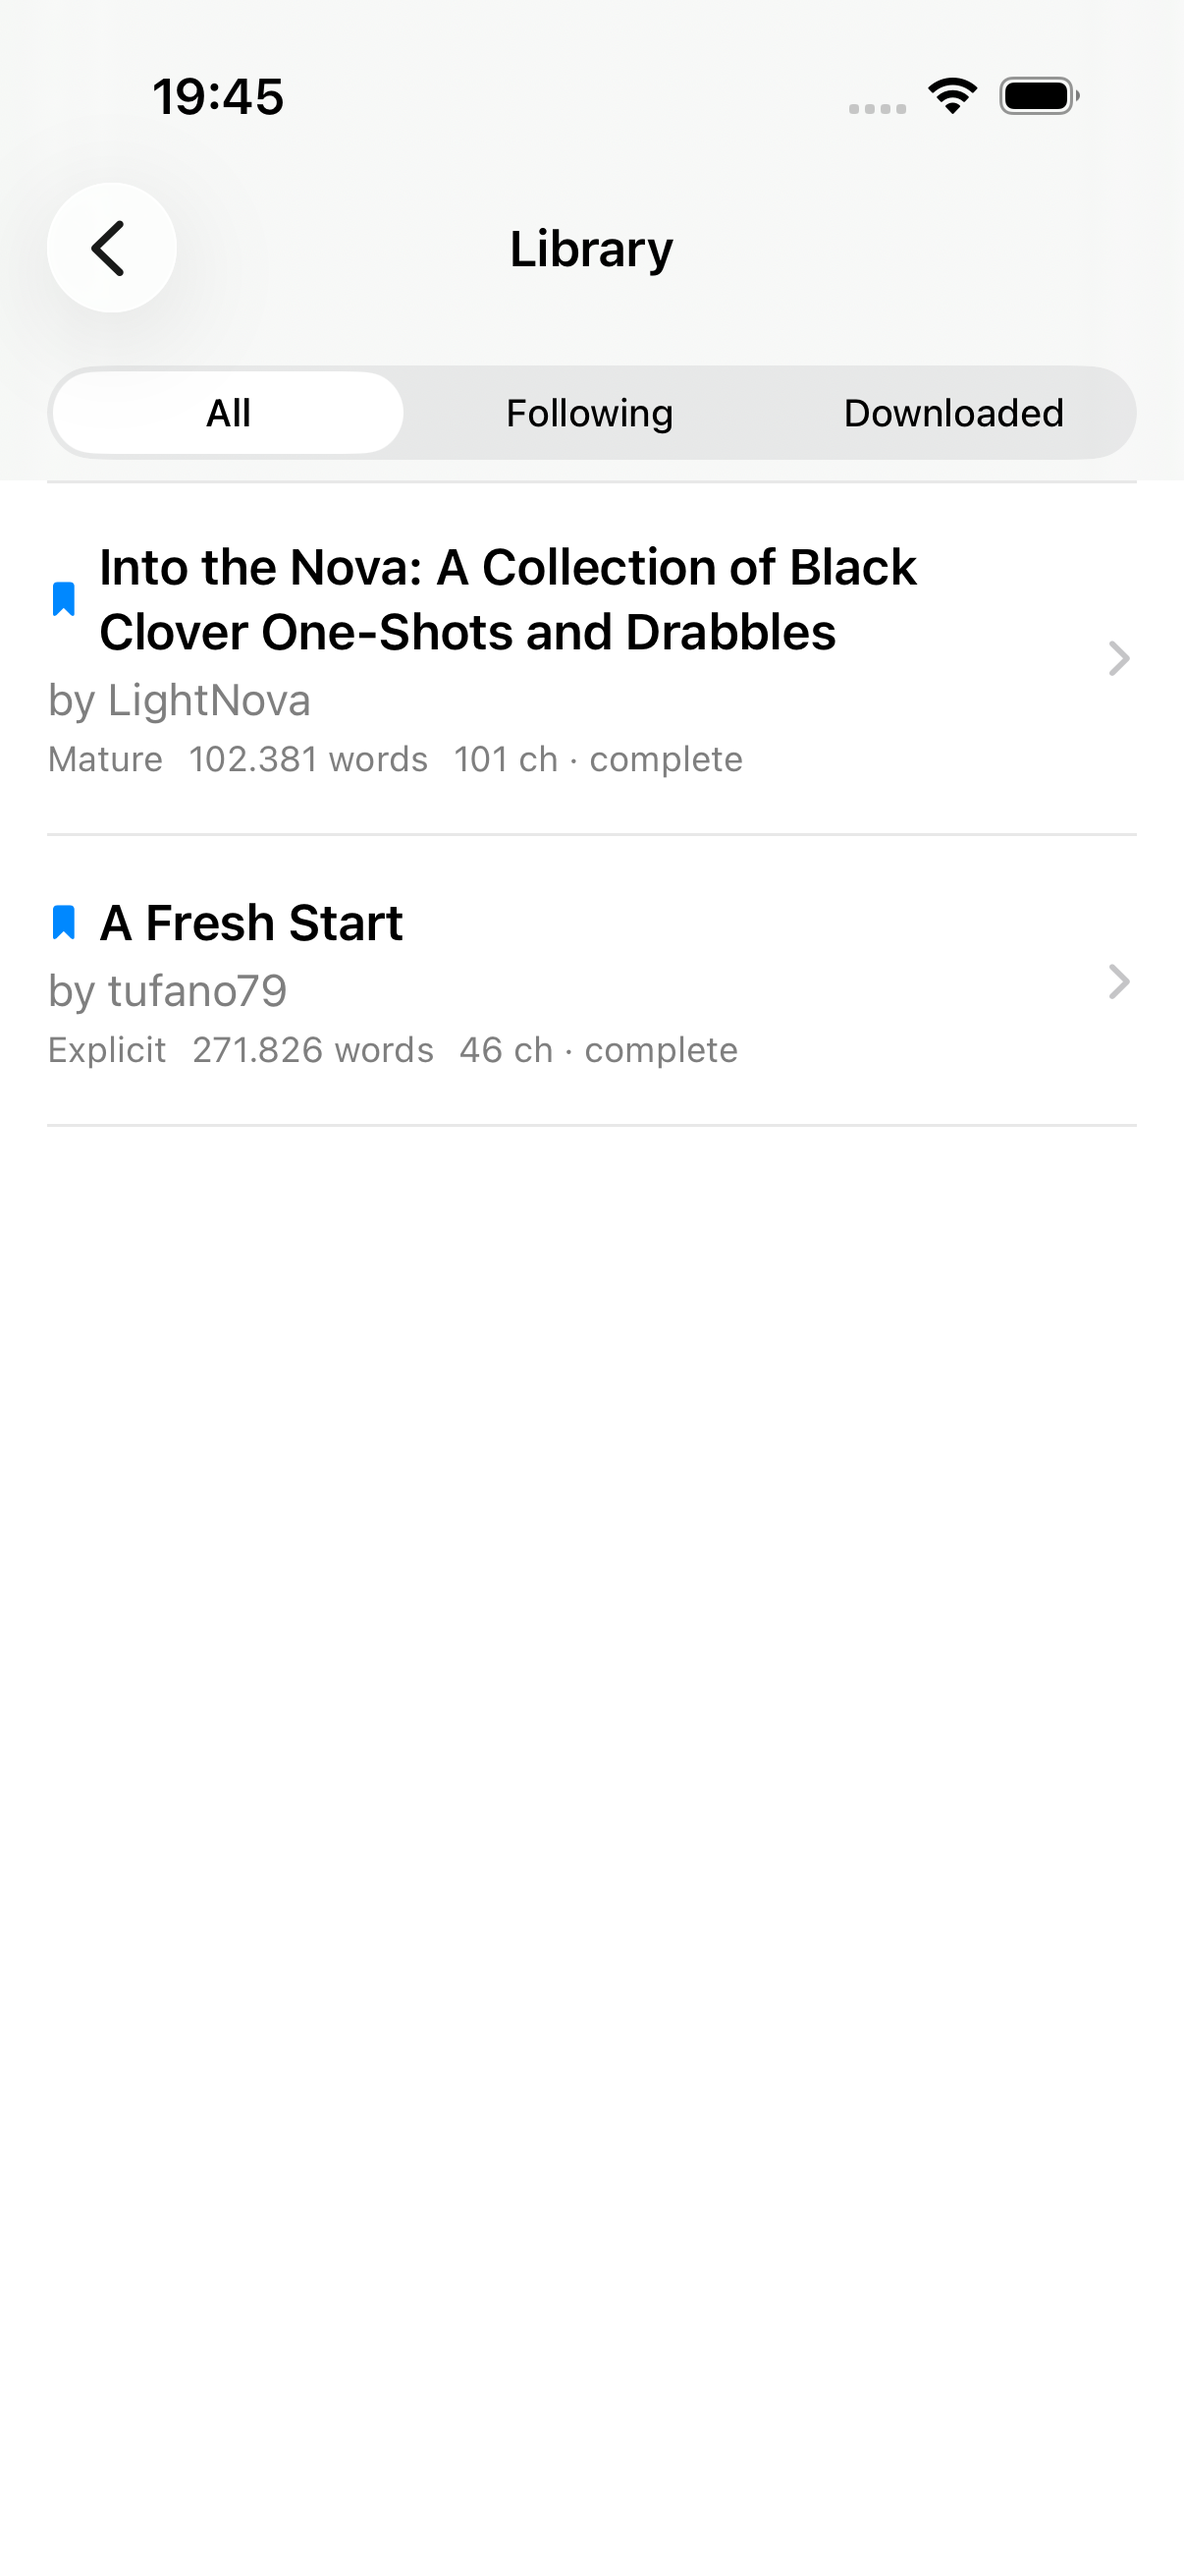
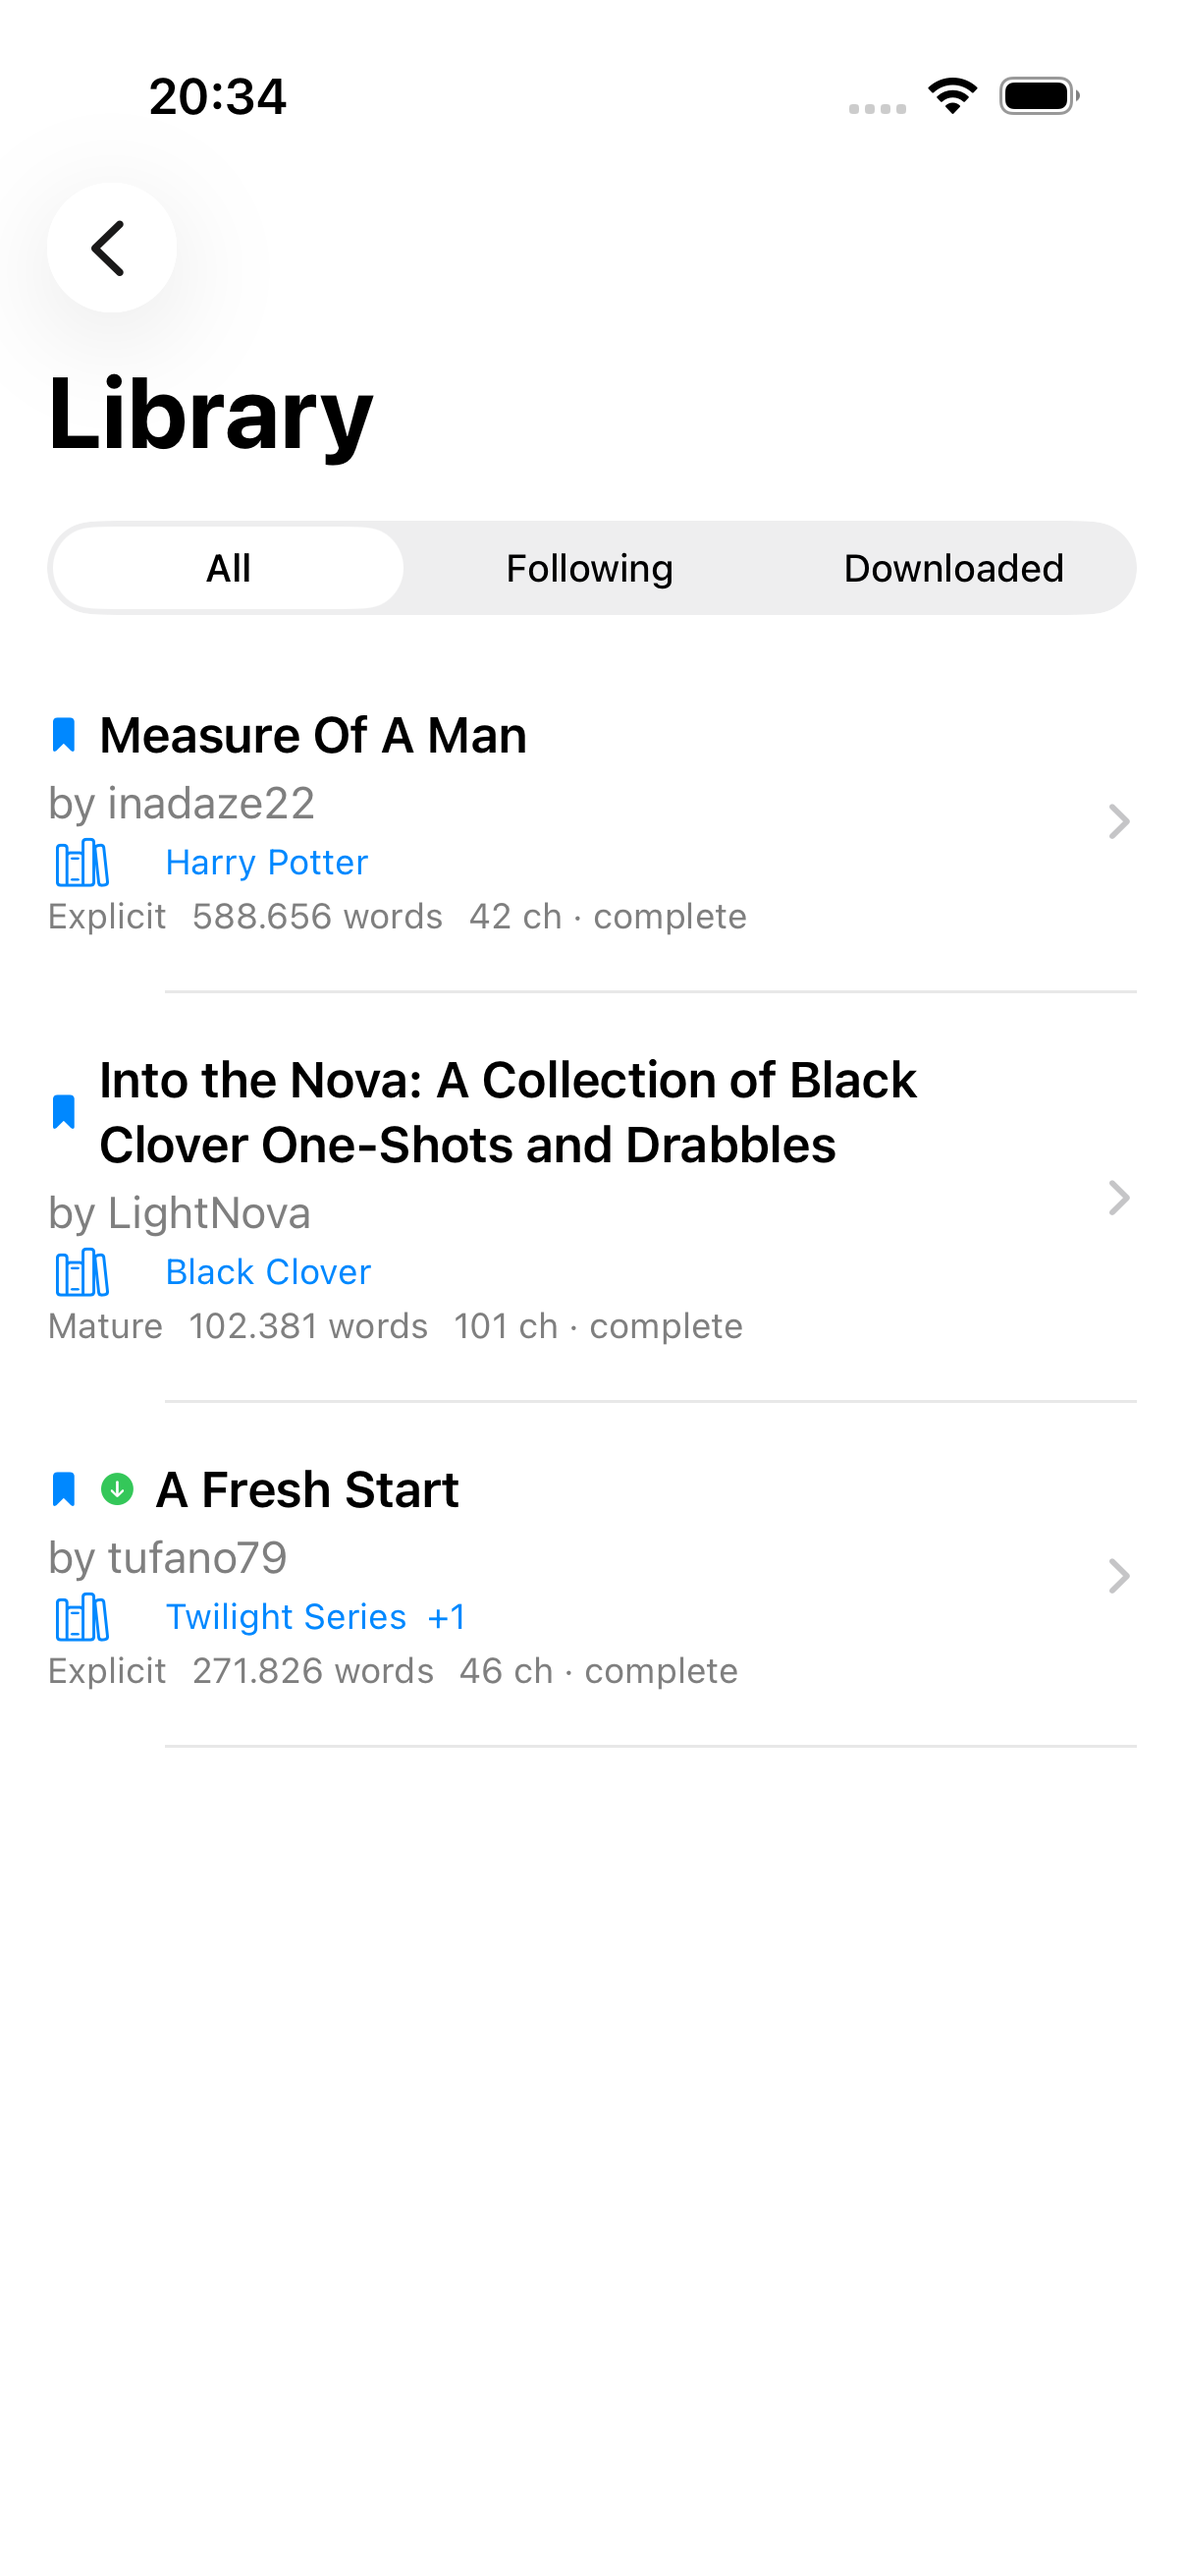
docs: test inventory in CLAUDE.md; regenerate screenshots
- CLAUDE.md now documents the ~100-test suite breakdown (parsers, search,
  endpoints, reader, persistence) and the 'make a helper internal to test
  it' convention.
- Regenerated docs/screenshots from ScreenshotTests: the library shot now
  shows the large title and per-row fandoms (Harry Potter, Black Clover,
  Twilight Series +1).

diff --git a/CLAUDE.md b/CLAUDE.md
@@ -54,7 +54,8 @@ Fanficly/
   Settings/                    # SettingsView + ReaderSettingsView + privacy
   DesignSystem/                # Typography, Spacing, FlowLayout, SafariView, ShareSheet
   PrivacyInfo.xcprivacy        # zero collection, zero tracking
-FanficlyTests/                 # XCTest — parsers, prompt parser, HTML render, tracking
+FanficlyTests/                 # ~100 XCTest cases — parsers, filters, endpoints,
+                               #   HTML render, tracking, in-memory persistence
 FanficlyUITests/               # smoke test + ScreenshotTests (README shots)
 ```
 
@@ -95,6 +96,15 @@ DEVELOPER_DIR=/Applications/Xcode.app/Contents/Developer xcodebuild test \
 ```
 
 CI runs the same on both an iPhone and an iPad simulator. CI picks the newest installed Xcode and the newest available sim UDIDs at runtime — don't hardcode device names anywhere.
+
+~100 unit tests (`FanficlyTests`), all pure/fixture-based (no network):
+- **Parsers** — `SearchResultsParserTests`, `WorkPageParserTests` (+ `LoginParserTests`), `SubscriptionsParserTests`, `MediaCategoryParserTests`, `WorkMetadataParserTests`. Each feeds inline HTML fixtures and asserts the typed output.
+- **Search** — `SearchPromptParserTests` (ships, characters, ratings, warnings, categories, freeforms incl. romance, fandoms, word count, status, engagement, language, exclusions), `AO3SearchFiltersTests` (every `work_search[*]` field mapping + NOT-exclusion composition), `TagResolverTests` (canonical resolution, ship slash variants).
+- **Endpoints** — `AO3EndpointsTests` (URLs, pagination, AO3 media path-encoding).
+- **Reader** — `HTMLToAttributedTests` (formatting, paragraph collapsing, lists/headings/hr), `ChapterTrackingTests` (anchor key/parse, topmost-anchor, current-chapter).
+- **Persistence** — `PersistenceTests` spins up an in-memory `ModelContainer` to exercise `WorkPersistence` (upsert/metadata/follow) and `ReadingProgressStore` (save/load round-trips).
+
+When you add a feature, add its tests here. Make a private helper `internal` if it needs direct testing (see `TagResolver.candidates/bestMatch`).
 
 The CoreData "Sandbox access to file-write-create denied" noise during test runs is harmless — it comes from SwiftUI booting the SwiftData container in the test host. Filter it out with `| grep -v CoreData:`.
 
